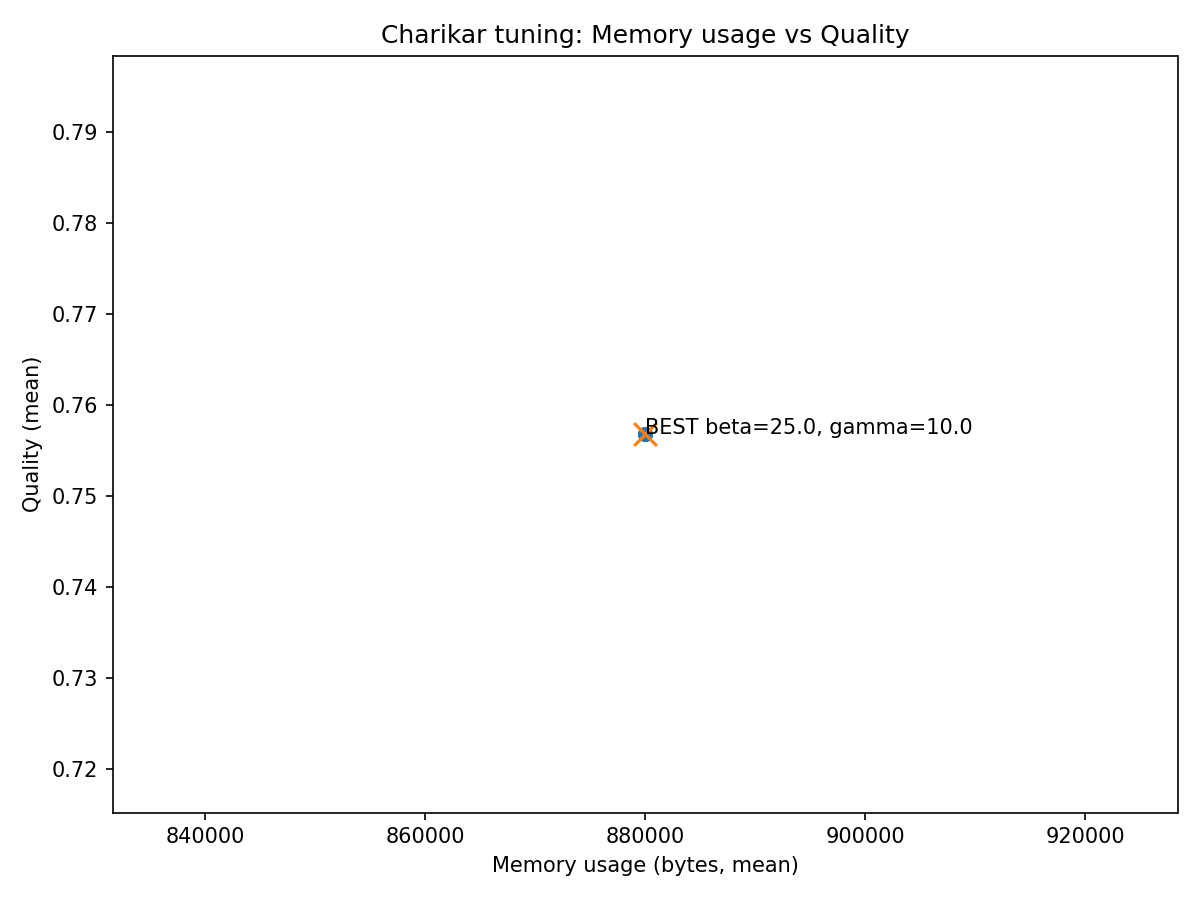
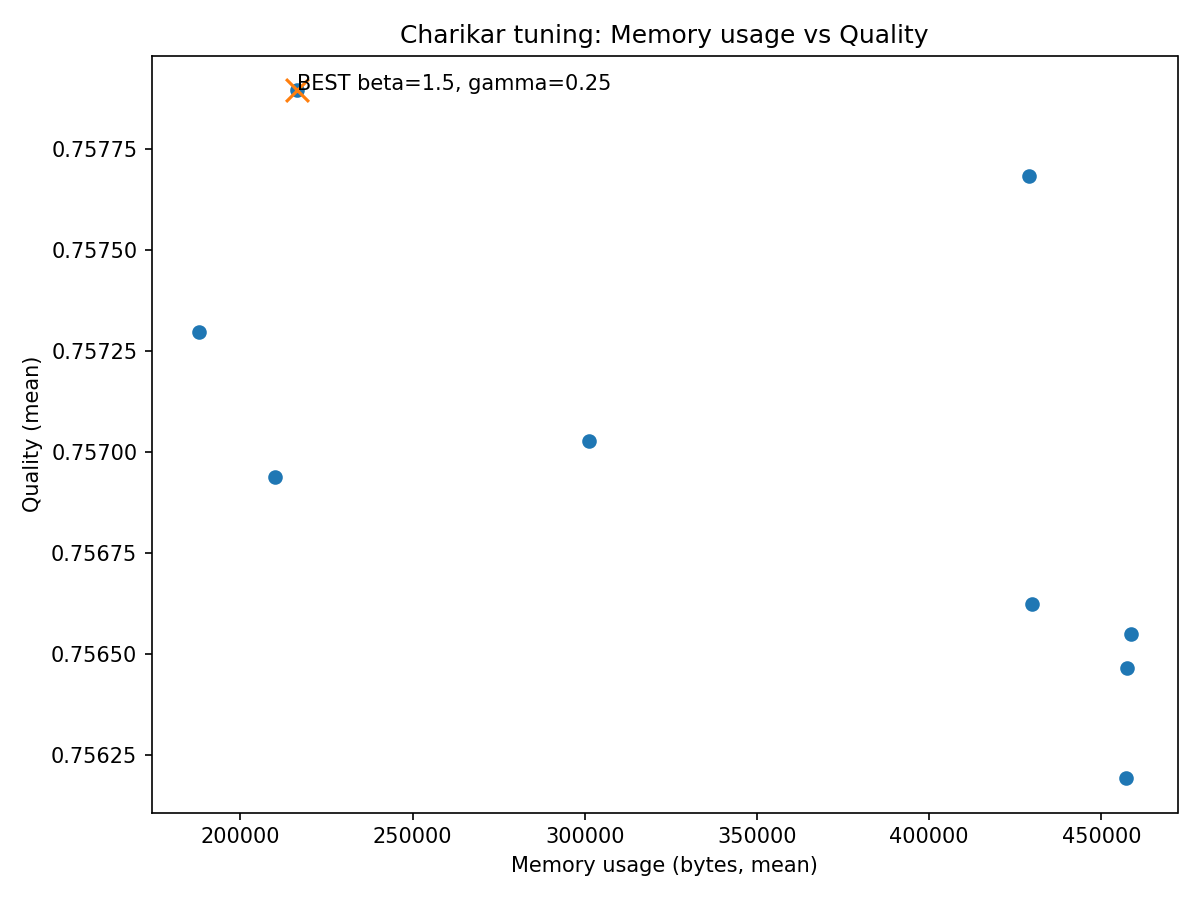
optimizing the chairkir parameters

diff --git a/tuned_utils.py b/tuned_utils.py
@@ -29,14 +29,13 @@ def tuned_algorithms():
     A = np.array([[0.6, -0.8], [0.4, 0.9]])
     X = X @ A
     rng = np.random.default_rng(123)
-    if d > 2:
-        X = np.hstack([X, rng.normal(0, 0.1, size=(n, d - 2))])
+    X = np.hstack([X, rng.normal(0, 0.1, size=(n, d - 2))])
 
     algos = [KMeansAlgo(max_iter=300)]
     ailon_df = tune_ailon_parameters(
         samples=X,
         k=8,
-        output_dir="output/ailon_blobs",
+        output_dir="output/ailon_tuned",
         labels=y,
         coreset_factors=(1.0, 1.5, 2.0),
         repeat_factors=(0.75, 1.0, 1.5),
@@ -52,7 +51,7 @@ def tuned_algorithms():
         samples=X,
         k=8,
         r_min=2,
-        output_dir="output/boutsidis_blobs",
+        output_dir="output/boutsidis_tuned",
         labels=y,
         eps_values = (1.5, 2.5, 3.5),
         c2_values = (1.0, 2.0, 3.0),
@@ -67,7 +66,7 @@ def tuned_algorithms():
     guha_df = tune_guha_parameters(
         samples=X,
         k=14,
-        output_dir="output/guha_blobs",
+        output_dir="output/guha_tuned",
         labels=y,
         chunk_size=4096,
         m_factor_values=(1.0, 2.0, 3.0, 4.0, 5.0),
@@ -82,11 +81,11 @@ def tuned_algorithms():
     charikar_df = tune_charikar_parameters(
         samples=X,
         k=8,
-        output_dir="output/charikar_blobs",
+        output_dir="output/charikar_tuned",
         labels=y,
         chunk_size=4092,
-        beta_values=(3.0, 5.0, 25.0),
-        gamma_values=(10.0, 30.0, 100.0),
+        beta_values = (0.5, 1.5, 3),
+        gamma_values = (0.25, 0.5, 1),
         seeds=(42, 77, 211),
         quality_weight=0.5,
         runtime_weight=0.25,

diff --git a/charikar_streaming_tuned.py b/charikar_streaming_tuned.py
@@ -173,8 +173,7 @@ def main():
     A = np.array([[0.6, -0.8], [0.4, 0.9]])
     X = X @ A
     rng = np.random.default_rng(123)
-    if d > 2:
-        X = np.hstack([X, rng.normal(0, 0.1, size=(n, d - 2))])
+    X = np.hstack([X, rng.normal(0, 0.1, size=(n, d - 2))])
 
 
     best_df = tune_charikar_parameters(
@@ -183,8 +182,8 @@ def main():
         output_dir="output/charikar_blobs",
         labels=y,
         chunk_size=4092,
-        beta_values=(3.0, 5.0, 25.0),
-        gamma_values=(10.0, 30.0, 100.0),
+        beta_values = (0.5, 1.5, 3),
+        gamma_values = (0.25, 0.5, 1),
         seeds=(42, 77, 211),
         quality_weight=0.5,
         runtime_weight=0.25,
